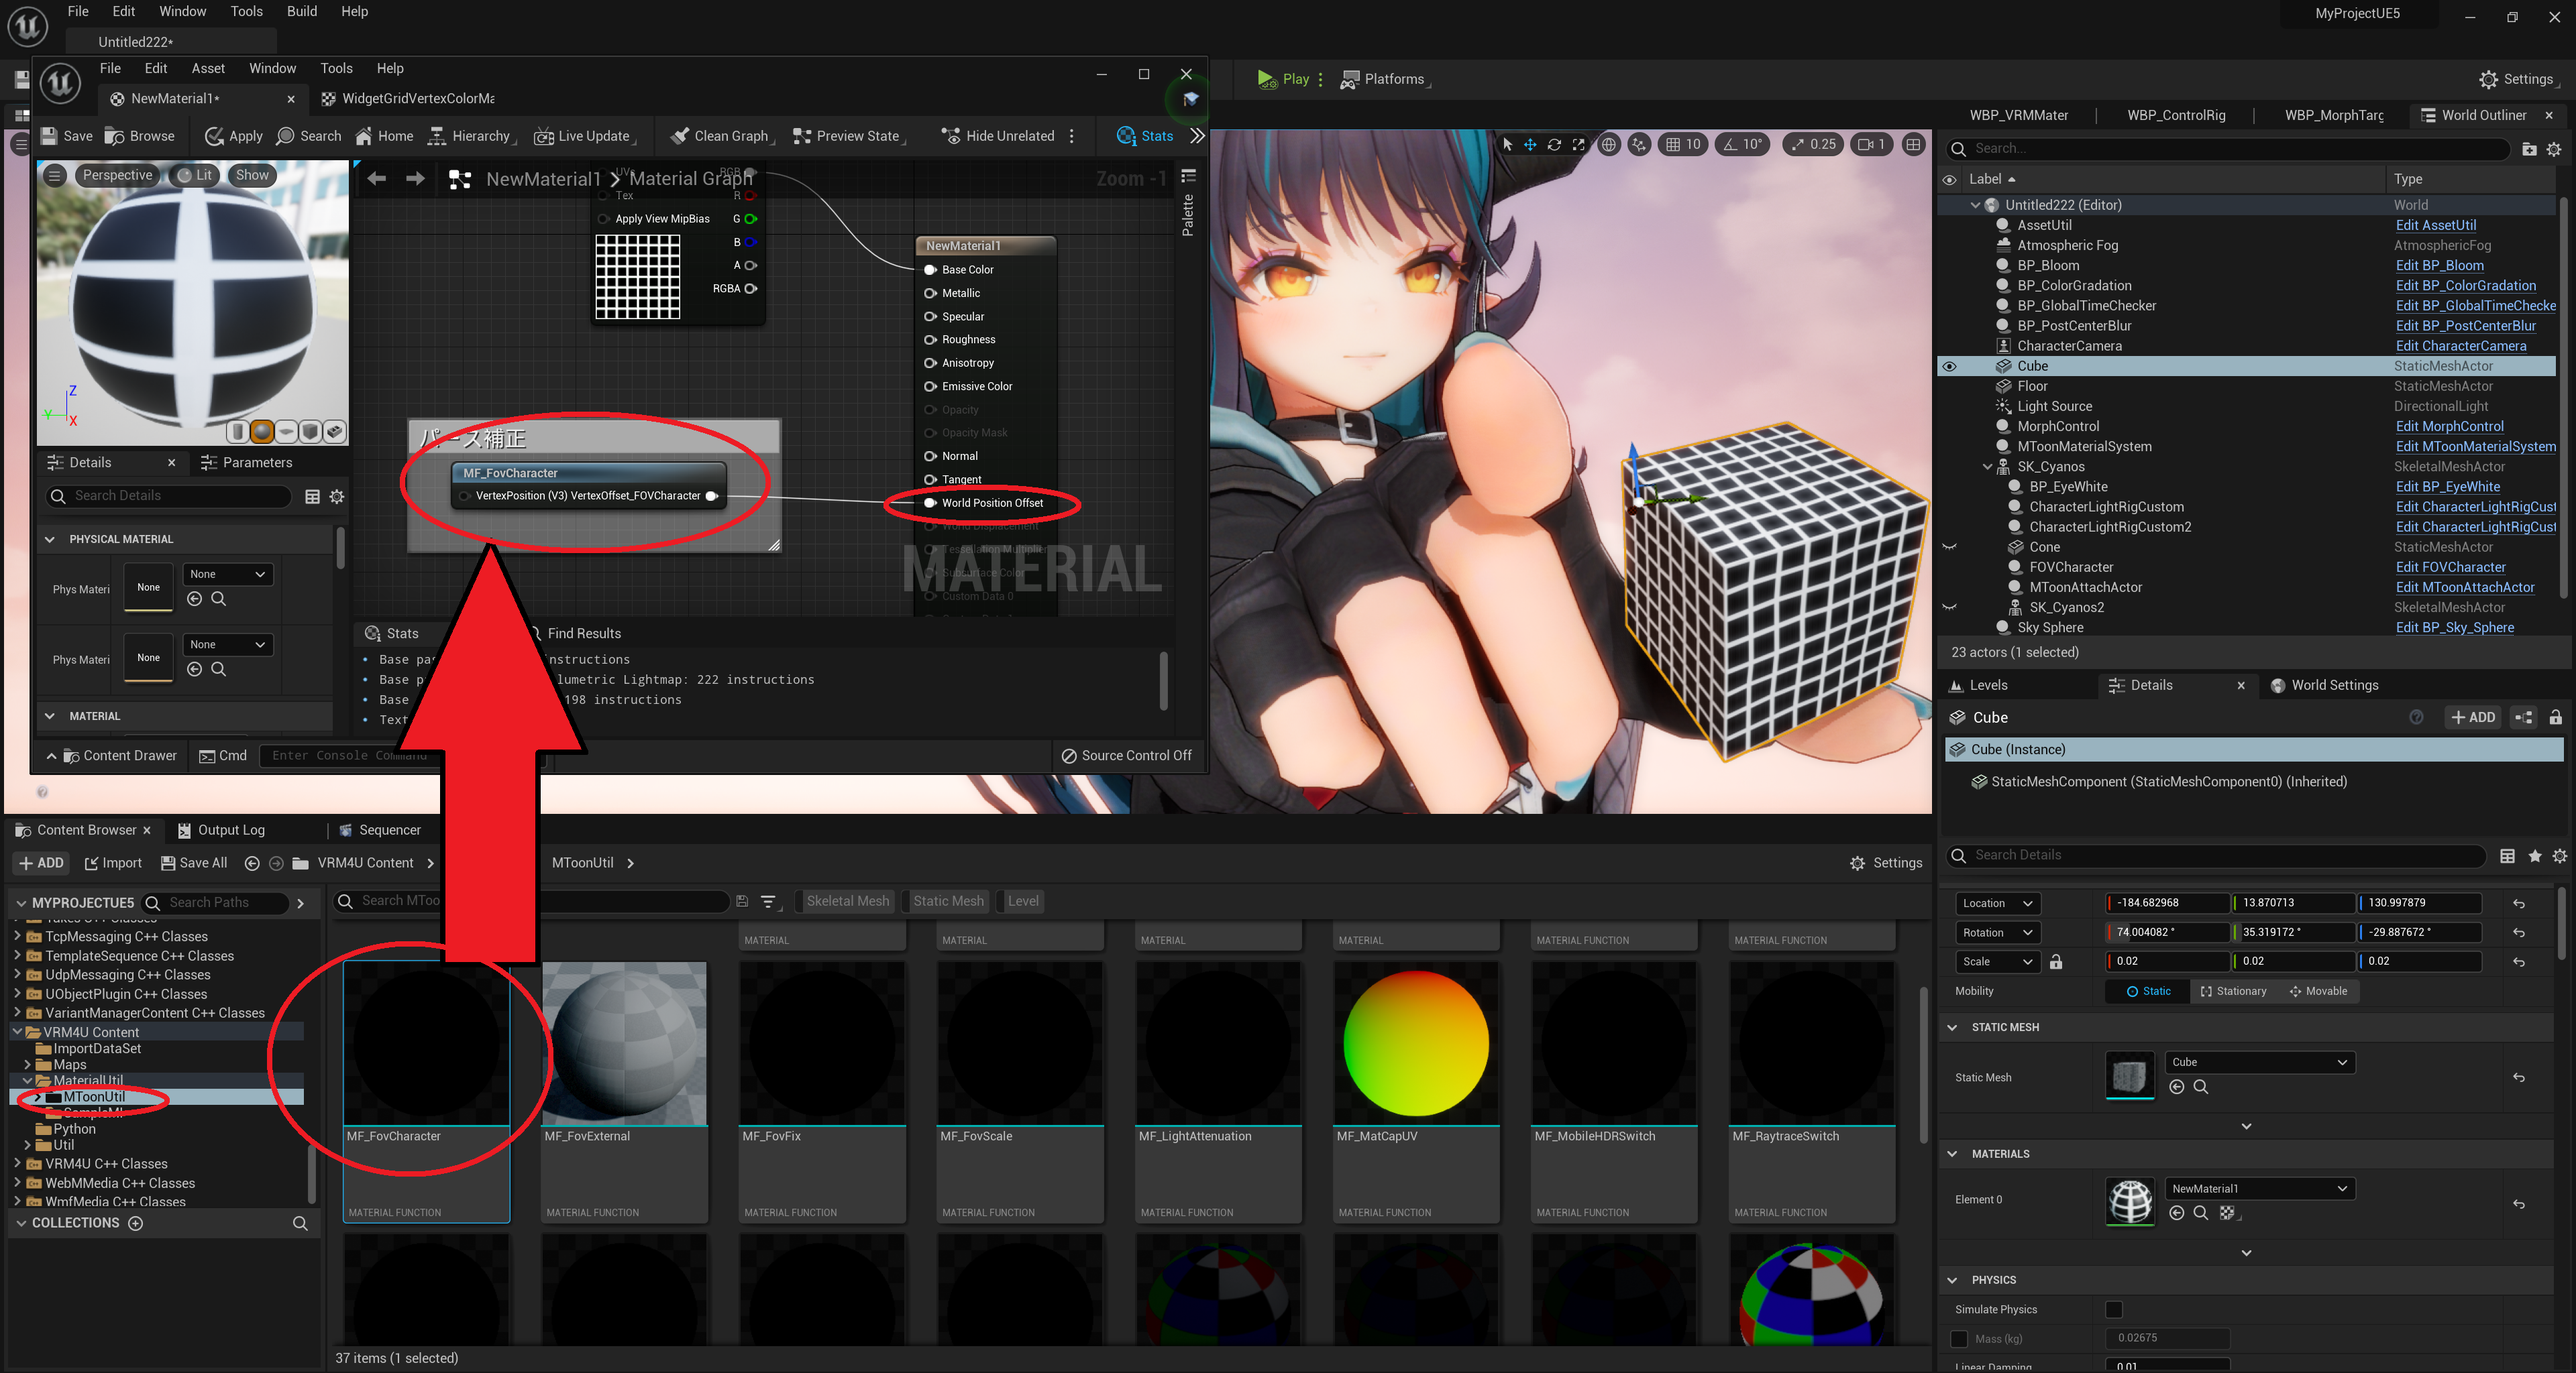
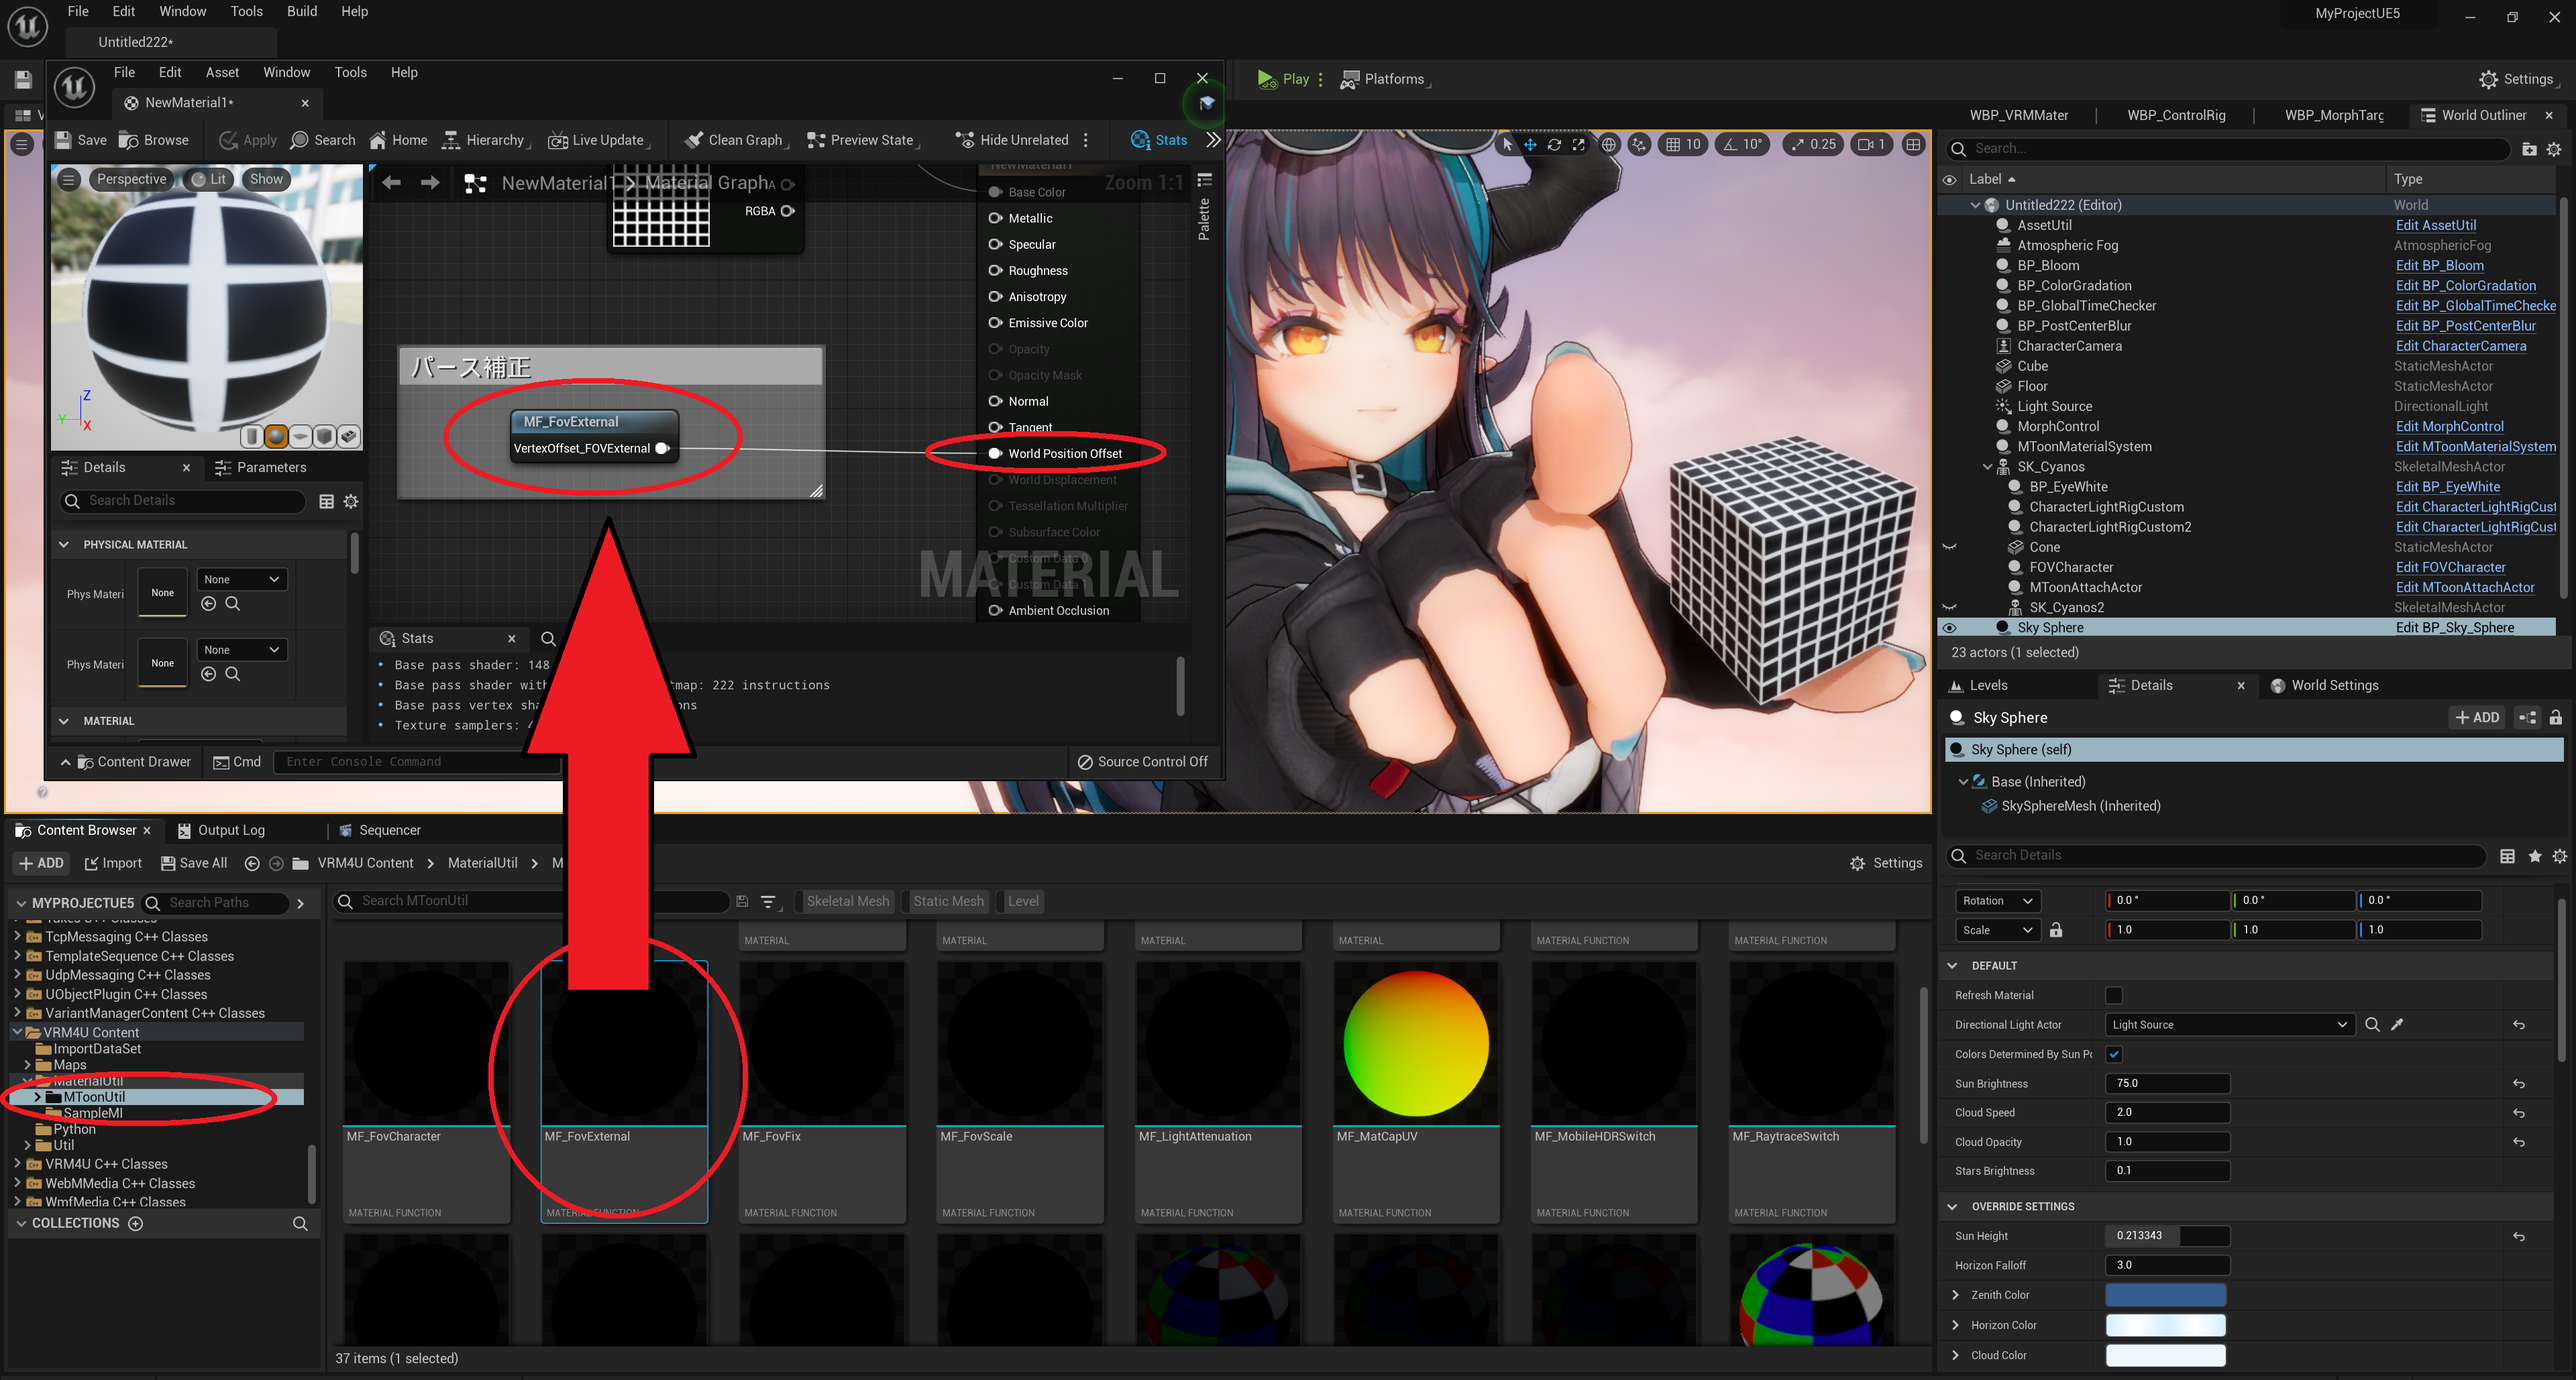
パースのノードを汎用に置き換えた

diff --git a/VRM4U/02_pers.md b/VRM4U/02_pers.md
@@ -114,7 +114,7 @@ VRM4U以外のマテリアルを併用する際は、以下のノードを利用
 |-|-|-|
 |[![](./assets/images/small/02p_n51.png)](../assets/images/02p_n51.png)|[![](./assets/images/small/02p_n52.png)](../assets/images/02p_n52.png)|[![](./assets/images/small/02p_n53.png)](../assets/images/02p_n53.png)|
 
-|MF_FovCharacter を WorldPositionOffset に繋ぐ<br>ドラッグ&ドロップで配置ください|
+|MF_FovExternal を WorldPositionOffset に繋ぐ<br>ドラッグ&ドロップで配置ください|
 |-|
 |[![](./assets/images/small/02p_n50.png)](../assets/images/02p_n50.png)|
 
